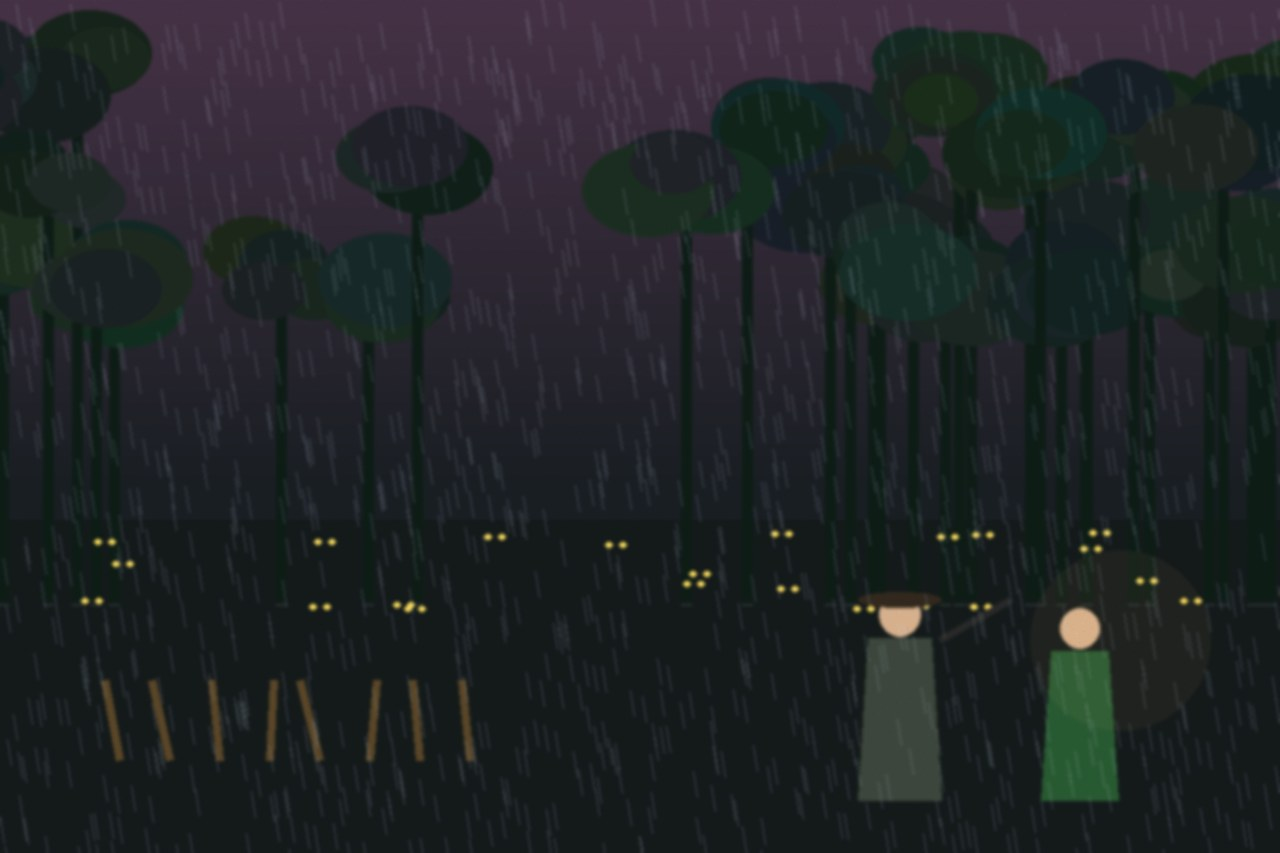
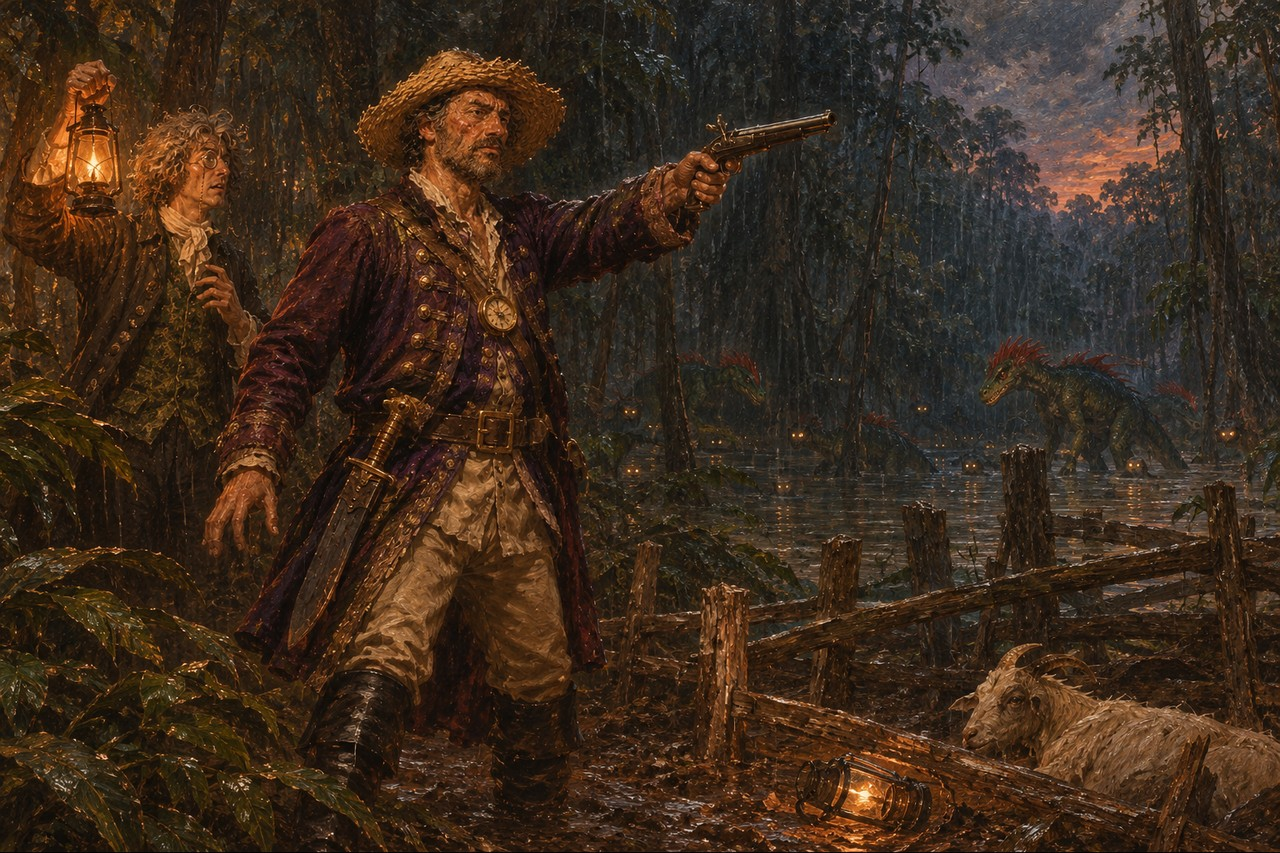
0.38.96: five Naturalist prologue stills painted (the station, eyes at the forest's edge, the Tyrant at the pen, the station burns, north)
Claude-Session: https://claude.ai/code/session_01NtmEZhP1uA8k4DLQ7BYfMz

diff --git a/README.md b/README.md
@@ -2,7 +2,7 @@
 
 *(the game was called Holdfast until November 2026, but that name belongs to another game; the old address, holdfastrts.github.io/Holdfast/, stops working once the organization is renamed)*
 
-**Play in your browser (version 0.38.95): https://triumviwar.github.io/**
+**Play in your browser (version 0.38.96): https://triumviwar.github.io/**
 
 **Windows program: https://triumviwar.github.io/Triumviwar_windows.zip** (rebuilt on every push; unzip it and run Triumviwar.exe; if Windows warns "Windows protected your PC", click More info, then Run anyway)
 
